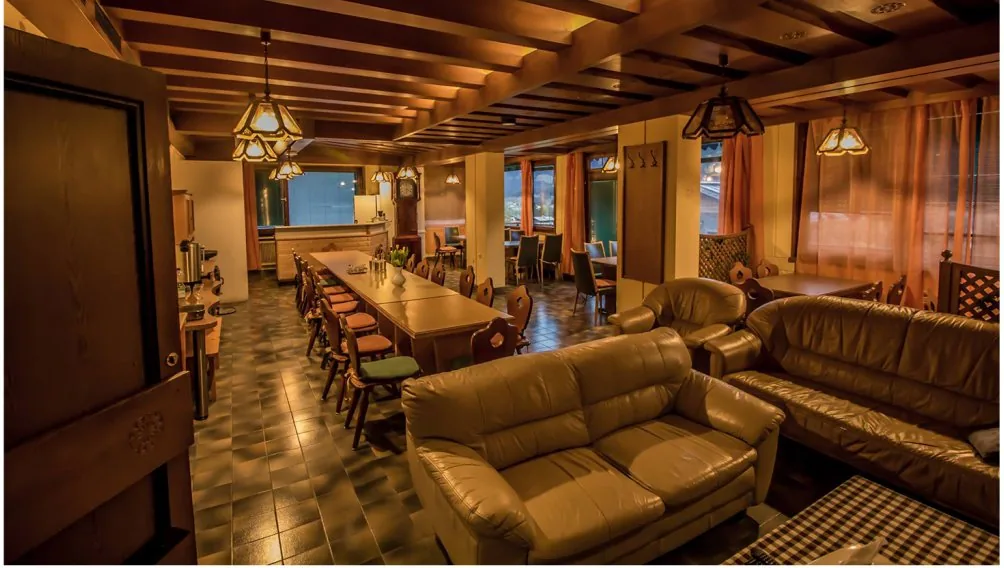
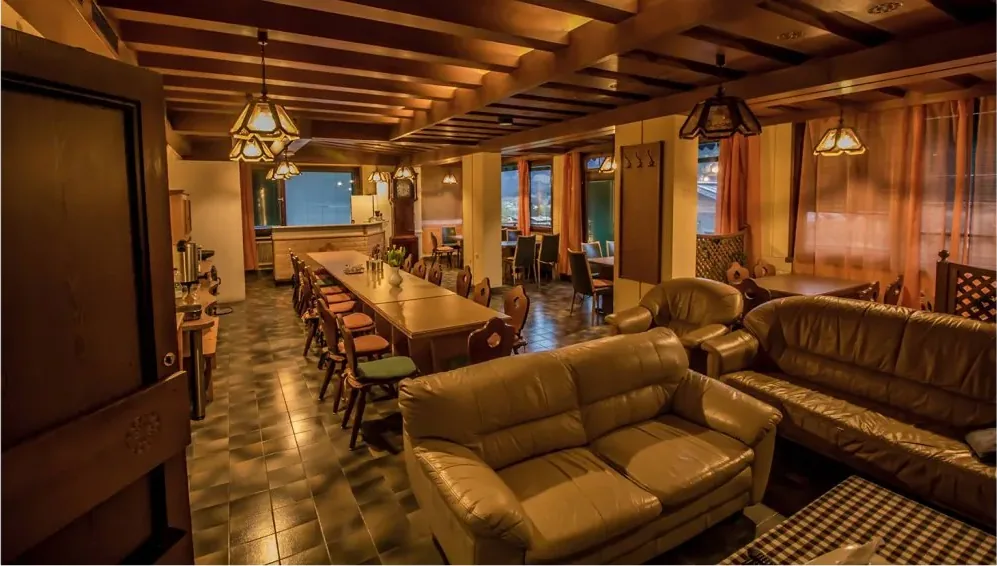
Ludwighaus: öt bejelentett megjelenési hiba javítása
1. Fehér szegély a nagyított képek körül
   - A szobafotó-nagyításon minden képre keret került
     (border:1px solid var(--panel-edge)); sötét háttér előtt ez fehér
     csíknak látszott. Eltávolítva, ahogy a galériában korábban.
   - Az "Étkező és közösségi tér" fotóban maga a képfájl tartalmazott
     2-4 px fehér keretet. A 75 képet végigvizsgálva ez az egy volt
     érintett; levágva.

2. Mobil menü
   - A logó a menüpontokra csúszott. Ok: a .mobnav "justify-content:
     center" görgethető dobozban felfelé tolja a tartalmat, ha az
     magasabb a helynél — alacsony kijelzőn az első menüpont a képernyő
     fölé került (390x640-en y=-17). Mérve: 49-79 px átfedés 640-700 px
     magasságnál, most 39-54 px szabad hely.
   - Az "Időpontot foglalok" felirata kilógott a pirulából. Ok: a
     ".mobnav a" szabály a gombra is ráült, elvette a vízszintes belső
     térközét (padding:.42rem 0) és 27 px-es betűt adott neki. A szabály
     a menülistára szűkítve.

3. A hero felső kisfelirata a fejléc logója alá csúszott (4 px átfedés);
   most 51 px szabad hely van alatta.

4. A szobakártyán az emelet-címke, a cím és a szobaszámok 10-12 px-re
   voltak egymástól, ami a 20 px-es címhez képest összetapadt. Most
   18 és 16 px.

5. A lábléc logója teljes szélességű saját sorban, balra lógva állt.
   Középre igazítva, vékony elválasztóval lezárva.

Ellenőrizve: négy képernyőméreten nulla kilógás és levágás; kontraszt
mind a hét nézeten rendben; 47 belső link, 0 konzolhiba, JSON-LD
[…]

diff --git a/preview/ludwighause-experience.html b/preview/ludwighause-experience.html
@@ -559,21 +559,32 @@ section.band + section.band{ border-top:1px solid var(--rule); }
 
 .mobnav{
   position:fixed; inset:0; z-index:45; display:flex; flex-direction:column;
-  justify-content:center; gap:1.6rem; padding:5rem clamp(1.2rem,6vw,3rem) 2.4rem;
-  padding-top:calc(5rem + env(safe-area-inset-top, 0px));
+  /* A sima "center" görgethető dobozban felfelé tolja a tartalmat, ha az
+     magasabb a helynél: alacsony kijelzőn (pl. beágyazott előnézet) az első
+     menüpont a logó alá, sőt a képernyő fölé csúszott. A "safe" változat
+     ilyenkor a tetejére igazít, így a felső térköz megmarad. */
+  justify-content:center; justify-content:safe center;
+  gap:1.6rem; padding:6.4rem clamp(1.2rem,6vw,3rem) 2.4rem;
+  padding-top:calc(6.4rem + env(safe-area-inset-top, 0px));
   padding-bottom:calc(2.4rem + env(safe-area-inset-bottom, 0px));
   background:color-mix(in srgb, var(--sky-top) 96%, transparent);
   backdrop-filter:blur(18px); -webkit-backdrop-filter:blur(18px);
   overflow-y:auto;
 }
 .mobnav ul{ list-style:none; margin:0; padding:0; display:grid; gap:.15rem; }
-.mobnav a{
+/* FONTOS: csak a menülistára. Korábban ".mobnav a" volt, ami ráült a lenti
+   "Időpontot foglalok" gombra is: elvette a vízszintes belső térközét
+   (padding:.42rem 0) és 27 px-es betűt adott neki, ezért a felirat kilógott
+   a pirulából. A telefonszám is ekkora lett. */
+.mobnav nav a{
   display:block; text-decoration:none; color:var(--fg);
   font-family:var(--display); font-weight:700; letter-spacing:-.02em;
   font-size:clamp(1.5rem,7vw,2.1rem); padding:.42rem 0;
   border-bottom:1px solid transparent;
 }
-.mobnav a:active,.mobnav a:hover{ color:var(--glacier); }
+.mobnav nav a:active,.mobnav nav a:hover{ color:var(--glacier); }
+/* A menü alsó sávjában a gomb a saját mérete szerint viselkedik. */
+.mobnav-foot .btn{ font-size:1rem; padding:.85rem 1.5rem; flex:none; }
 .mobnav-foot{ display:flex; flex-wrap:wrap; align-items:center; gap:.9rem 1.4rem; padding-top:1rem; border-top:1px solid var(--rule); }
 .mobnav-foot .lang{ flex-basis:100%; gap:.4rem; }
 .mobnav-foot .lang button{ font-size:.78rem; padding:.55rem .9rem; border-color:var(--rule); }
@@ -1506,8 +1517,11 @@ html[data-motion="on"] .peng-btn.jump{ animation:pengJump .62s cubic-bezier(.3,1
 .photo-btn:hover{ background:var(--glacier); color:#04191B; border-color:var(--glacier); }
 .card.has-photo::after{ inset:auto 1.1rem 1.1rem auto; }
 
+/* A világos keret a sötét háttér előtt fehér csíknak látszott a kép körül —
+   ugyanaz a hiba, mint amit a galériában már javítottunk. Keret nélkül a
+   fénykép széle maga zárja le a képet. */
 #photobox .lb-stage img{
-  width:100%; max-width:100%; border-radius:14px; border:1px solid var(--panel-edge);
+  width:100%; max-width:100%; border-radius:14px; border:0;
   display:block; aspect-ratio:3/2; object-fit:cover; background:rgba(9,20,33,.6);
 }
 </style>
@@ -1578,7 +1592,12 @@ html[data-motion="on"] .peng-btn.jump{ animation:pengJump .62s cubic-bezier(.3,1
 [data-pickable="true"] .card-body{
   padding:1.5rem 1.7rem; display:flex; flex-direction:column; gap:.55rem; min-width:0;
 }
-[data-pickable="true"] .card-top{ margin-bottom:.2rem; }
+/* A négy sor (emelet-címke, cím, szobaszámok, leírás) 10-12 px-re volt
+   egymástól, ami a 20 px-es címhez képest összetapadt látvány. A címke és a
+   szobaszámok külön levegőt kapnak, így a cím kiemelkedik közülük. */
+[data-pickable="true"] .card-top{ margin-bottom:.55rem; }
+[data-pickable="true"] .room-card h3{ margin-bottom:.1rem; }
+[data-pickable="true"] .room-nos{ margin-bottom:.45rem; }
 [data-pickable="true"] .room-card h3{ font-size:clamp(1.25rem,1.6vw,1.55rem); letter-spacing:-.025em; }
 .room-nos{
   font-size:.66rem; letter-spacing:.16em; text-transform:uppercase; color:var(--glacier);
@@ -1863,6 +1882,10 @@ a, button, [role="button"], input, select, textarea, label, summary{
   .eyebrow{ font-size:.75rem; letter-spacing:.18em; }
   .foot .foot-h{ font-size:.75rem; letter-spacing:.16em; }
   .hero-kicker{ font-size:.74rem; letter-spacing:.22em; }
+  /* A fejléc logója 63 px-ig ér; 56 px felső térköz mellett a kisfelirat
+     pontosan alácsúszott. A "section.band" nagyobb fajsúlyú, ezért ez a
+     szabály is szekcióra hivatkozik, különben nem érvényesül. */
+  section.band.hero{ padding-top:7rem; }
   .spec-row{ font-size:.76rem; }
   .hint{ font-size:.88rem; }
   .card-desc, .body-text{ font-size:.96rem; line-height:1.62; }
@@ -1949,7 +1972,15 @@ a, button, [role="button"], input, select, textarea, label, summary{
   /* Telefonon a logó saját sort kap, a linkoszlopok alatta kettesével:
      kétoszlopos rácsban a logó melletti fél sor üresen maradt. */
   .foot-grid{ grid-template-columns:1fr 1fr; gap:1.6rem 1.4rem; }
-  .foot-grid > div:first-child{ grid-column:1 / -1; }
+  /* A logó eddig teljes szélességű saját sorban, balra lógva állt, nagy
+     üres felülettel mellette — ott lebegett a hasábok fölött. Középre
+     igazítva, vékony elválasztóval lezárva fejlécként viselkedik. */
+  .foot-grid > div:first-child{
+    grid-column:1 / -1; display:flex; justify-content:center;
+    padding-bottom:1.6rem; margin-bottom:.4rem; border-bottom:1px solid var(--rule);
+  }
+  .foot-grid > div:first-child .brand--foot{ display:block; }
+  .brand--foot .brand-logo{ width:clamp(150px,44vw,190px); }
   /* A nyelvváltó balra kerül: jobb alsó sarokban a pingvin takarta. */
   .foot-bottom{ margin-top:2rem; gap:.75rem; flex-direction:column; align-items:flex-start; }
 }
